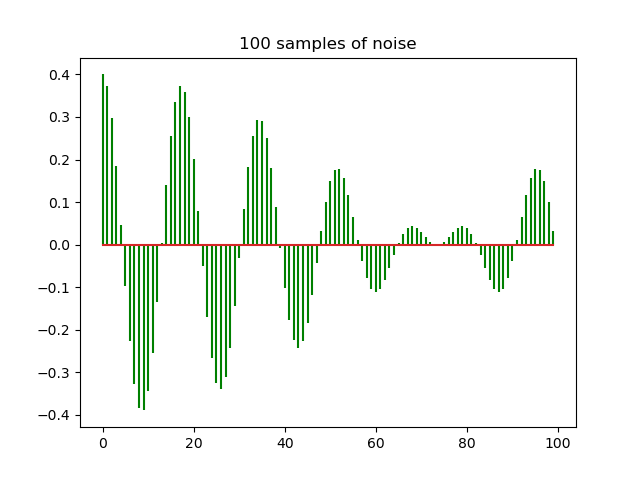
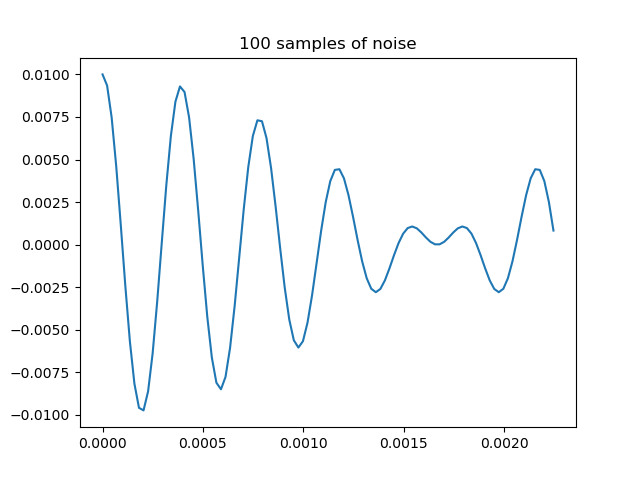
ajustado o eixo x nos plots

diff --git a/trabalho_final.py b/trabalho_final.py
@@ -1,5 +1,6 @@
 import numpy as np
 from matplotlib import pyplot
+import os
 
 
 def read_wav(path: str) -> (list, int):
@@ -11,41 +12,47 @@ def read_wav(path: str) -> (list, int):
         'float64': 1
     }
 
-    framerate_in_samples_per_sec, data = wavfile.read(path)
+    frame_rate_in_samples_per_sec, data = wavfile.read(path)
 
     data = data / standard_deviation_table[str(data.dtype)]
 
-    wave_info = f"wav file {path} framerate {framerate_in_samples_per_sec}, data type {data.dtype} channels {data.shape}"
+    wave_info = f"wav file {path} framerate {frame_rate_in_samples_per_sec}, data type {data.dtype} channels {data.shape}"
     print(wave_info)
-    return data, framerate_in_samples_per_sec
+    return data, frame_rate_in_samples_per_sec
 
 
-def plot_wave(data: np.array, figure_number: int, title: str, line_format='g-'):
+def plot_wave(y: np.array, figure_number: int, title: str, line_format='g-', x: np.array = np.array([])):
     pyplot.figure(figure_number)
     pyplot.title(title)
-    pyplot.stem(data, linefmt=line_format, markerfmt=' ')
-    pyplot.show()
-    # pyplot.savefig(f"{title}.png")
+    plot_dir = 'plots'
+    if x.size:
+        pyplot.plot(x, y)
+    else:
+        pyplot.stem(y, linefmt=line_format, markerfmt=' ')
 
+    if not os.path.isdir(plot_dir):
+        os.mkdir(plot_dir)
+
+    pyplot.savefig(os.path.join(plot_dir, f'{title}.png'))
     print(f"{title} saved")
 
 
-def noise(t: int) -> float:
+def noise(t: float) -> float:
     # Parametro 9 : f_1 = 2.4kHz f_2 = 2.7kHz A_r = 60Db deltaW =0.05pi
-    A = 0.01
+    A = 0.005  # esse parâmetro é a minha escolha.
     f_1 = 2.4e3
     f_2 = 2.7e3
-    return A*np.cos(2*np.pi*f_1*t) + A*np.cos(2*np.pi*f_2*t)
+    return A * np.cos(2 * np.pi * f_1 * t) + A * np.cos(2 * np.pi * f_2 * t)
 
 
 def make_noise(size_sample: int, frame_rate: int) -> np.array:
-    period_rate = 1/frame_rate
-    return np.array([noise(i*period_rate) for i in range(size_sample)])
+    period_rate = 1 / frame_rate
+    return np.array([noise(i * period_rate) for i in range(size_sample)])
 
 
 # calcula a norma de um sinal
 def norm(signal: np.array) -> np.array:
-    return np.array([np.sqrt(value.real**2 + value.imag**2) for value in signal])
+    return np.array([np.sqrt(value.real ** 2 + value.imag ** 2) for value in signal])
 
 
 # calcula a fase de um sinal
@@ -53,32 +60,40 @@ def phase(signal: np.array) -> np.array:
     return np.array([np.arctan(value.imag / value.real) for value in signal])
 
 
-song, frame_rate = read_wav('trabalho_final.wav')
-noise_sample = make_noise(song.shape[0], frame_rate)
+def main():
+    song, sample_rate = read_wav('trabalho_final.wav')
+    noise_sample = make_noise(song.shape[0], sample_rate)
+
+    second_channel: np.ndarray = song[:, 1]
+
+    figure_number = 1
+
+    time_in_seconds = np.arange(second_channel.size) * 1 / sample_rate
+
+    plot_wave(second_channel, figure_number, 'song', 'b-', x=time_in_seconds)
+    figure_number += 1
+
+    plot_wave(noise_sample[0:1000], figure_number, '1000 samples of noise', x=time_in_seconds[0:1000])
+    figure_number += 1
+
+    noised_song = second_channel + noise_sample
+
+    plot_wave(noised_song, figure_number, 'noised song', 'b-', x=time_in_seconds)
+    figure_number += 1
+
+    sp = np.fft.fft(noised_song)
+    norm_sp = norm(sp)
+    # fftfreq gera os indicies corretos na frequencia ou seja
+    # [0, 1, 2, ... , N/2, -N/2, -N/2 +1, -N/2 +2,  ... -N/2 + N/2 ]
+    # onde N e o numero de amostras
+    sample_spacing = 1 / sample_rate
+    freq = np.fft.fftfreq(noised_song.shape[-1], d=sample_spacing)
+
+    print(f'freq shape: {freq.shape}', freq)
+
+    plot_wave(norm_sp, figure_number, 'Modulo da Minha voz com ruido na frequencia', x=freq)
+    figure_number += 1
 
 
-figure_number = 1
-
-# plot_wave(song[:, 1], figure_number, 'song', 'b-')
-# figure_number += 1
-
-# plot_wave(noise_sample[0:100], figure_number, '100 samples of noise')
-# figure_number += 1
-
-
-noised_song = song[:, 1] + noise_sample
-
-# plot_wave(noised_song, figure_number, 'noised song', 'b-')
-# figure_number += 1
-
-
-sp = np.fft.fft(noised_song)
-
-norm_sp = norm(sp)
-freq = np.fft.fftfreq(noised_song.shape[-1])
-pyplot.plot(freq, norm_sp.real, freq, norm_sp.imag)
-pyplot.title('Minha voz com ruido na frequencia')
-pyplot.show()
-figure_number += 1
-
-# phase_sp = phase_sp(phase_sp)
+if __name__ == '__main__':
+    main()
